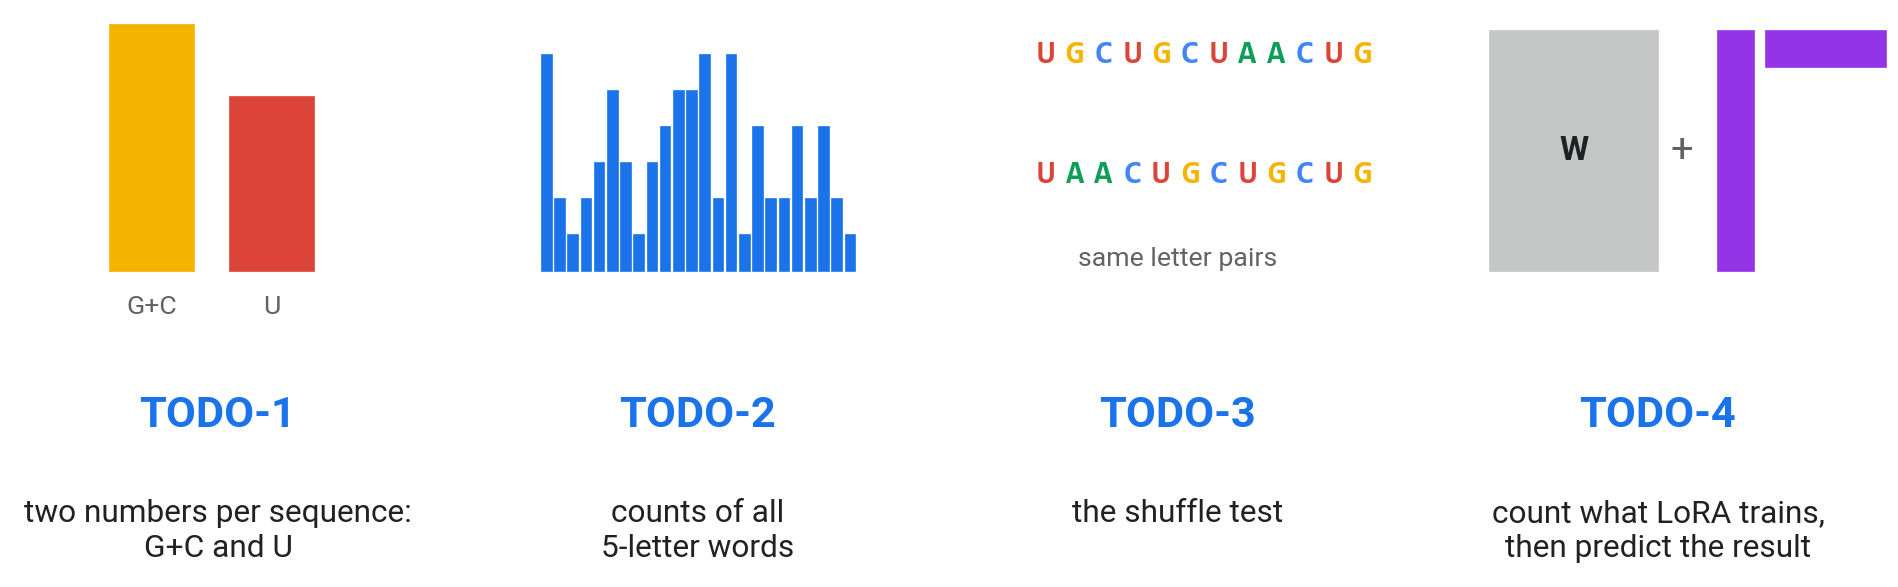
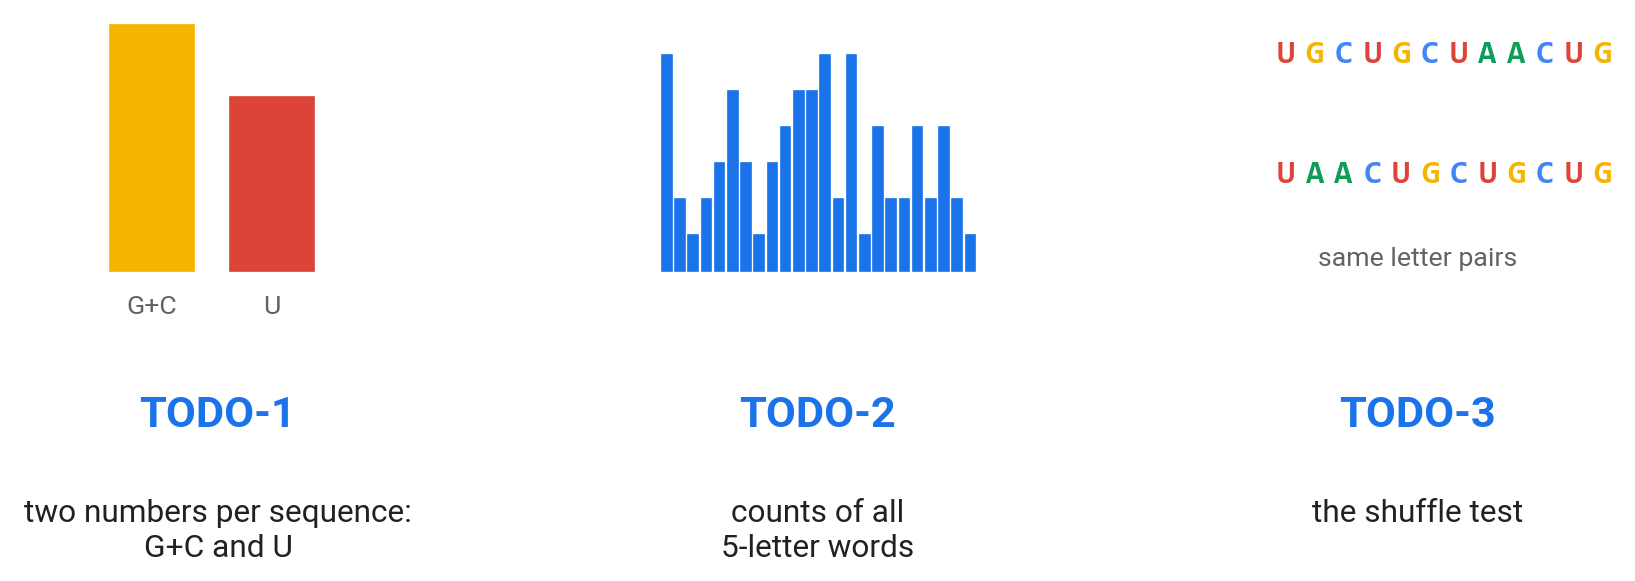
Part 3: LoRA removed from the notebook and the deck's two LoRA slides

diff --git a/slides/03_shortcuts_and_controls.html b/slides/03_shortcuts_and_controls.html
@@ -222,26 +222,6 @@
 </div>
 
 </section>
-<section id="lora" class="slide level2" data-todo="TODO-4">
-<h2>3.2 LoRA</h2>
-<p><strong>Low-Rank Adaptation</strong>: train a small correction to each weight matrix, keep the matrix itself</p>
-<p><span class="math display">\[W x \;\rightarrow\; (W + BA)\,x, \qquad B \in \mathbb{R}^{256 \times r},\; A \in \mathbb{R}^{r \times 256},\; r = 16\]</span></p>
-<div class="quarto-figure quarto-figure-center">
-<figure>
-<p><img data-src="assets/custom/lora.png" class="quarto-figure quarto-figure-center" height="565"></p>
-</figure>
-</div>
-
-</section>
-<section id="the-lora-training-step" class="slide level2">
-<h2>3.3 The LoRA training step</h2>
-<div class="quarto-figure quarto-figure-center">
-<figure>
-<p><img data-src="assets/custom/lora_loop.png" class="quarto-figure quarto-figure-center" height="680"></p>
-</figure>
-</div>
-
-</section>
 <section id="hands-on" class="title-slide slide level1 center" data-name="Hands-on">
 <h1>4 Hands-on</h1>
 
